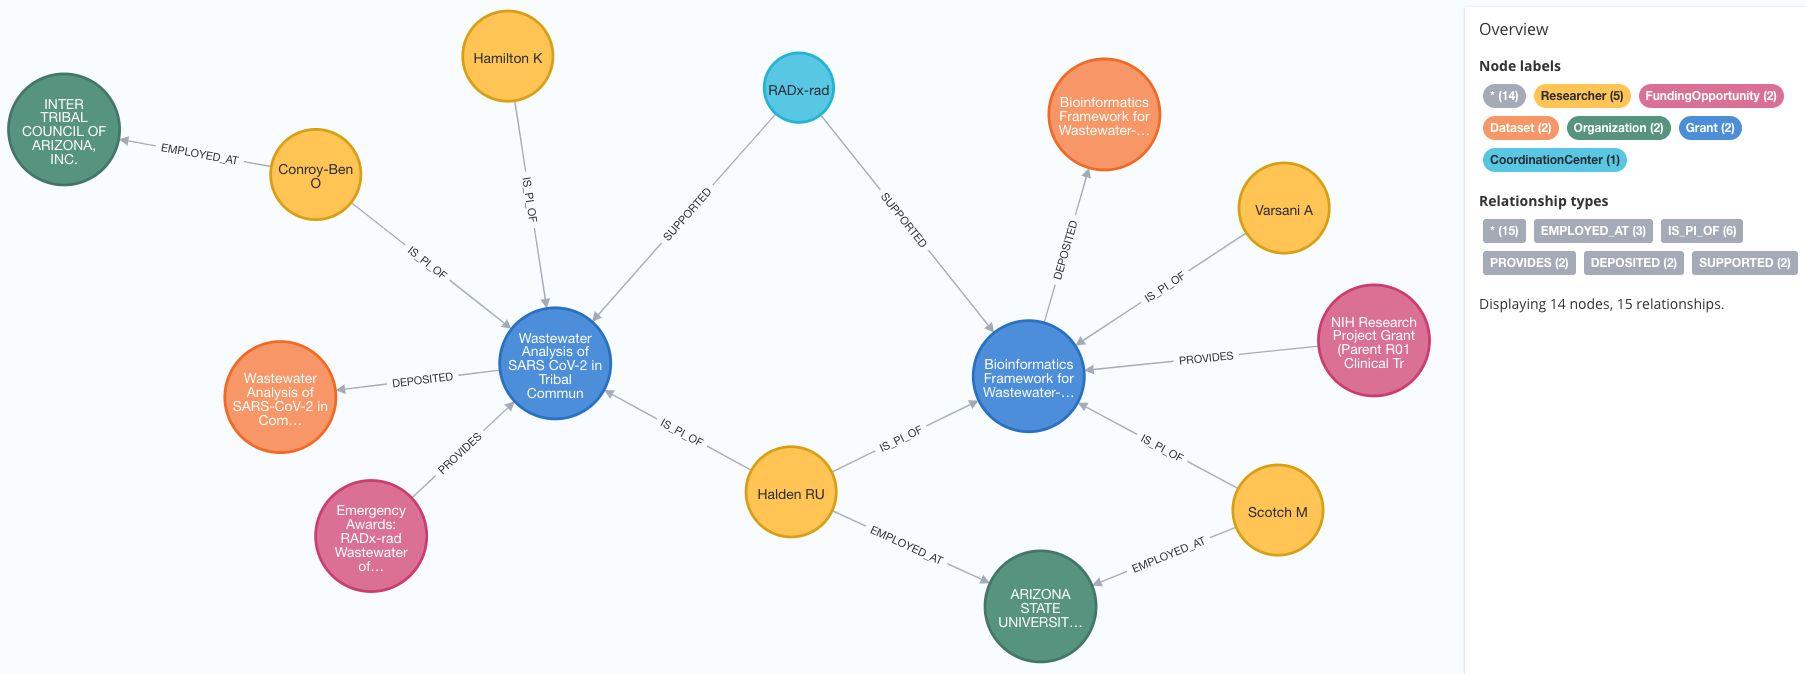
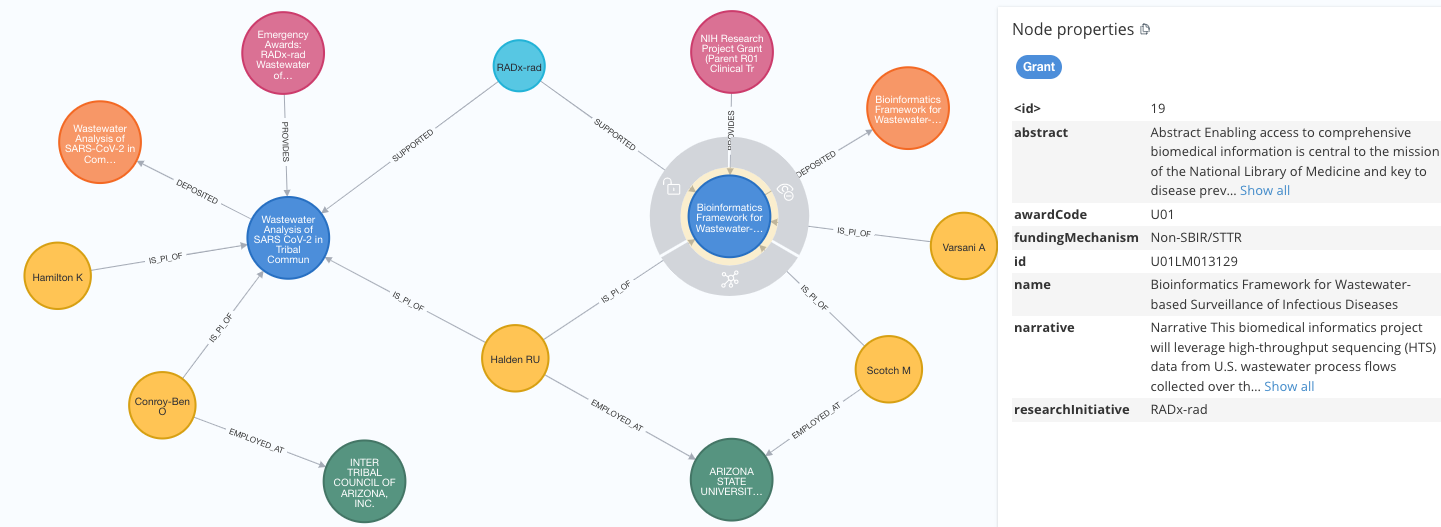
updated images and documentation

diff --git a/README.md b/README.md
@@ -30,20 +30,21 @@ The radx-kg links the following assets:
 <img src="docs/Metagraph.png", width="70%">
 </p>
 
-The meta graphs show the relationship among the nodes.
+The meta graphs show the relationship among the nodes. The Grant node is selected to display its metadata in the right panel.
 
 ## Example Subgraphs
-<p align="center">
-<img src="docs/RADx-subgraph.png", width="100%">
-</p>
-
-Entire subgraph of the RADx-rad project assets.
 
 <p align="center">
 <img src="docs/Example_subgraph.png", width="100%">
 </p>
 
-Subgraph of two wastewater projects.
+Subgraph of two wastewater projects with one Grant node selected to display its properties.
+
+<p align="center">
+<img src="docs/RADx-rad_subgraph.png", width="100%">
+</p>
+
+Entire subgraph of the RADx-rad project assets. The right panel shows the legend for the node labels and relationship types.
 
 ## Directories and Files
 
